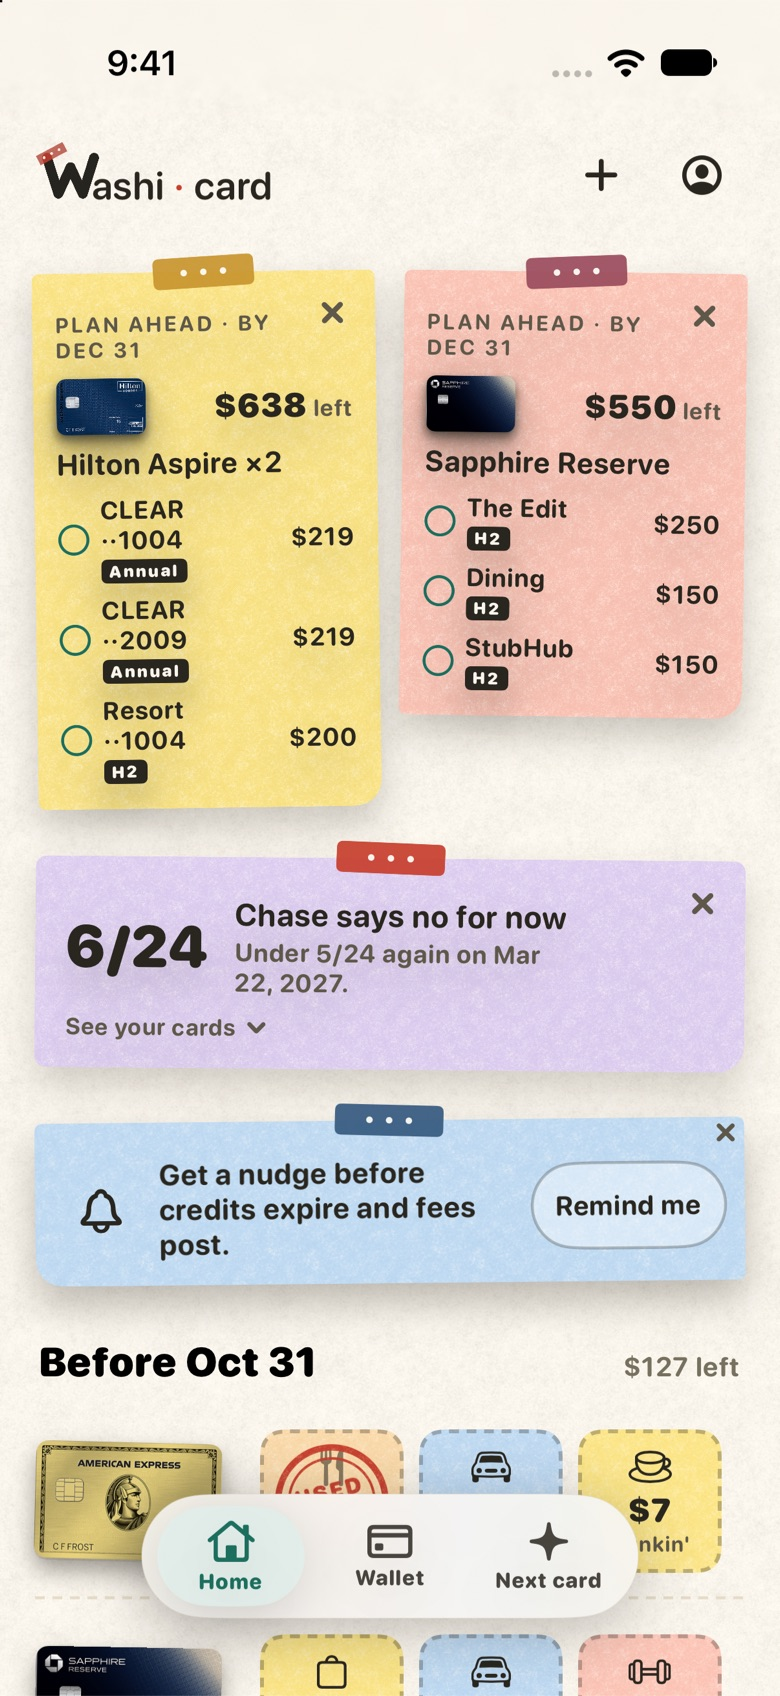
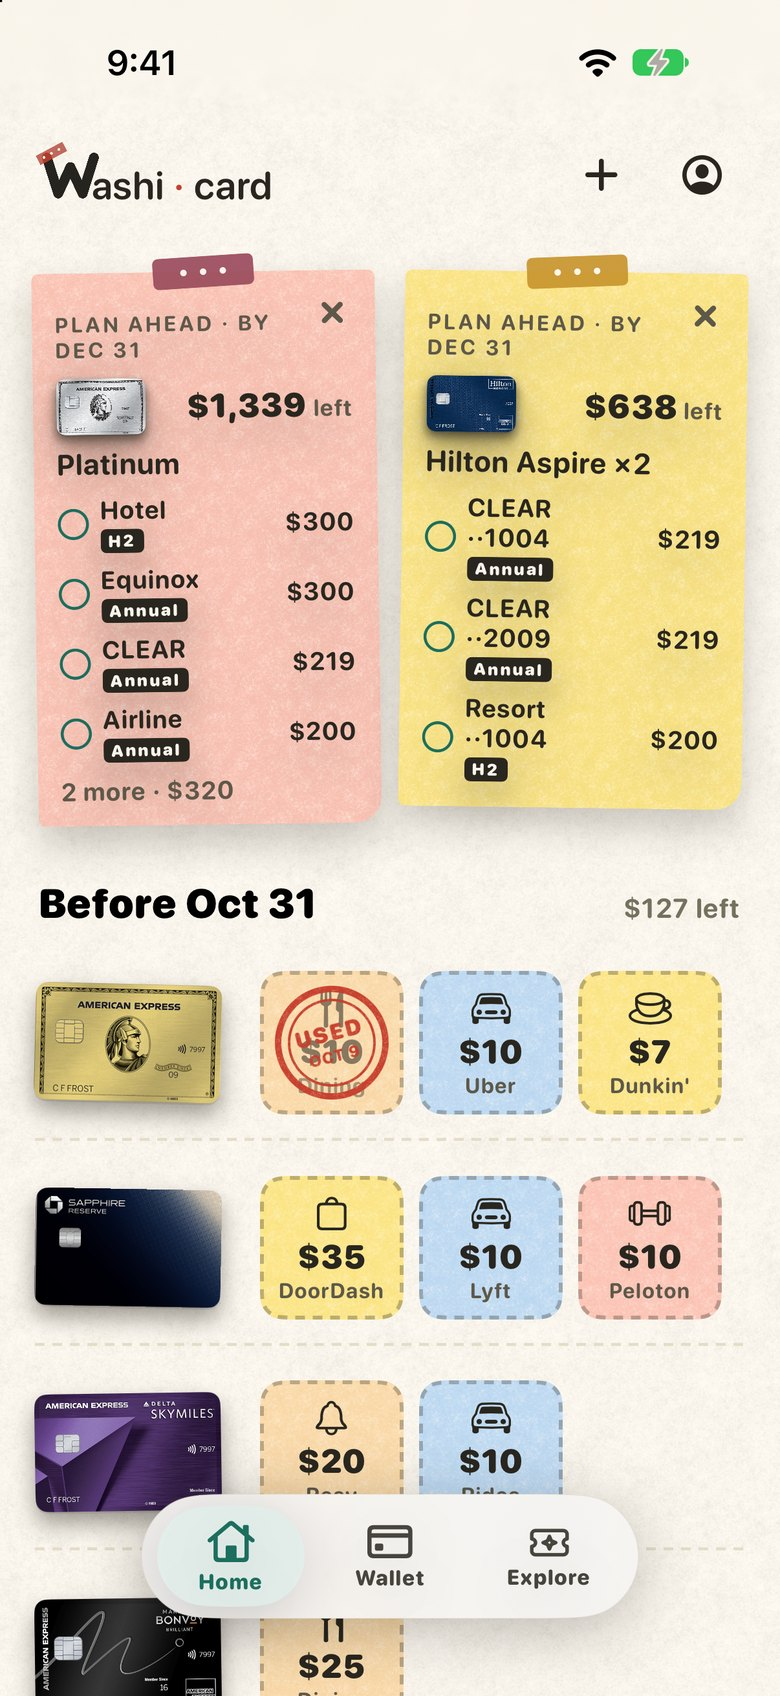
Washicard screenshot: Home without the wide notes, so the stamps show; Explore tab

diff --git a/index.html b/index.html
@@ -338,7 +338,7 @@
       <span class="dots">•••</span>
       <div class="pad">Card perks · iPhone · Android · web</div>
       <div class="logo"><a href="https://washicard.com/?ref=h4yd3n.com" target="_blank" rel="noopener"><img src="assets/logos/washicard.svg" alt="Washicard" /></a></div>
-      <div class="shot phone"><a href="https://washicard.com/?ref=h4yd3n.com" target="_blank" rel="noopener"><img src="assets/washicard-home.jpg" alt="Washicard's Home screen: Plan ahead notes for a Hilton Aspire and a Sapphire Reserve, and this month's credits as coupons to stamp" /></a></div>
+      <div class="shot phone"><a href="https://washicard.com/?ref=h4yd3n.com" target="_blank" rel="noopener"><img src="assets/washicard-home.jpg" alt="Washicard's Home screen: Plan ahead notes for a Platinum and a Hilton Aspire, and this month's credits as coupons to stamp" /></a></div>
       <p class="tag" style="margin-top:10px">Your card wall.</p>
       <p class="desc">Tape every card to the wall, stamp each credit as you use it, and see when a card has paid for its fee.</p>
       <p class="free">Free <span>— no bank logins, no card numbers</span></p>
